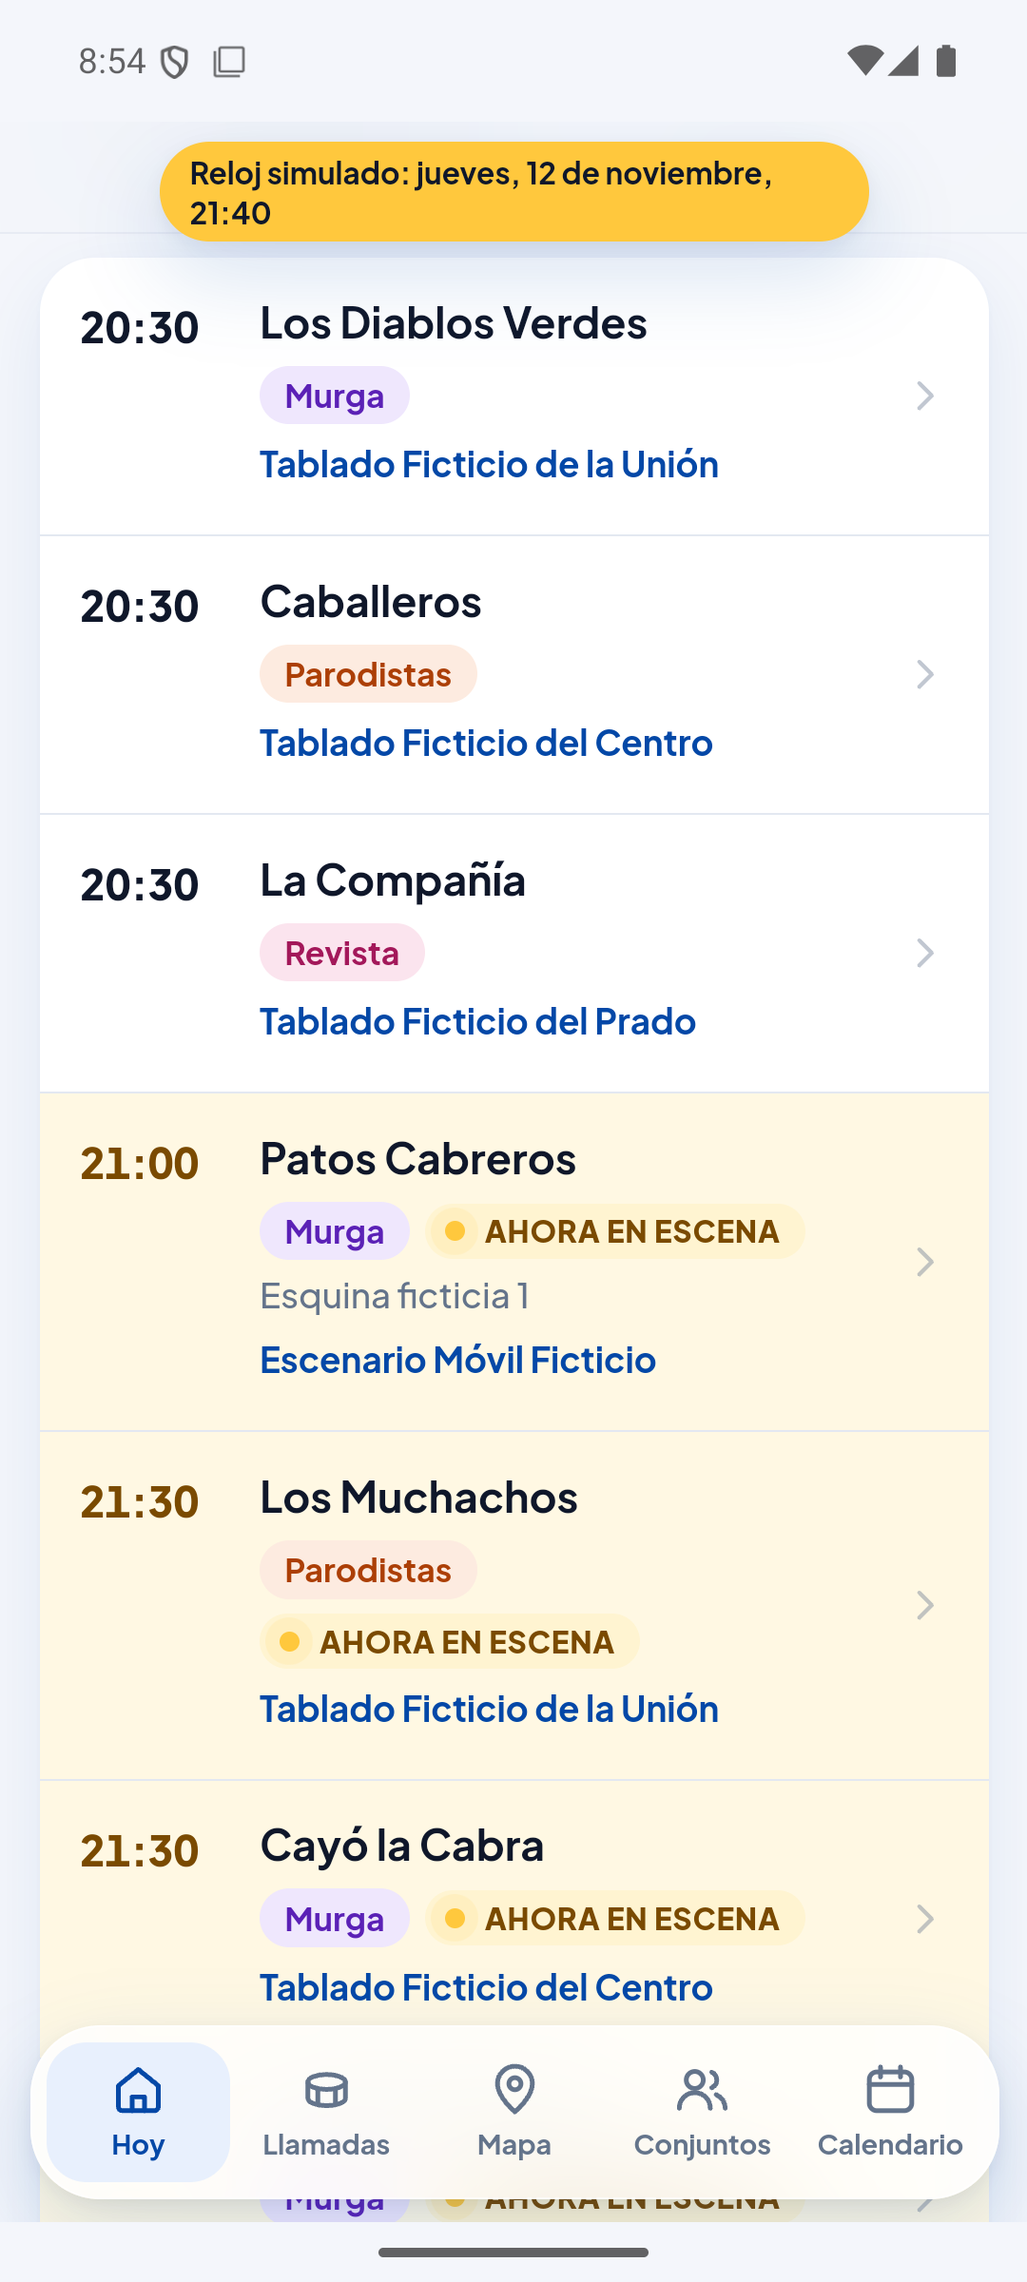
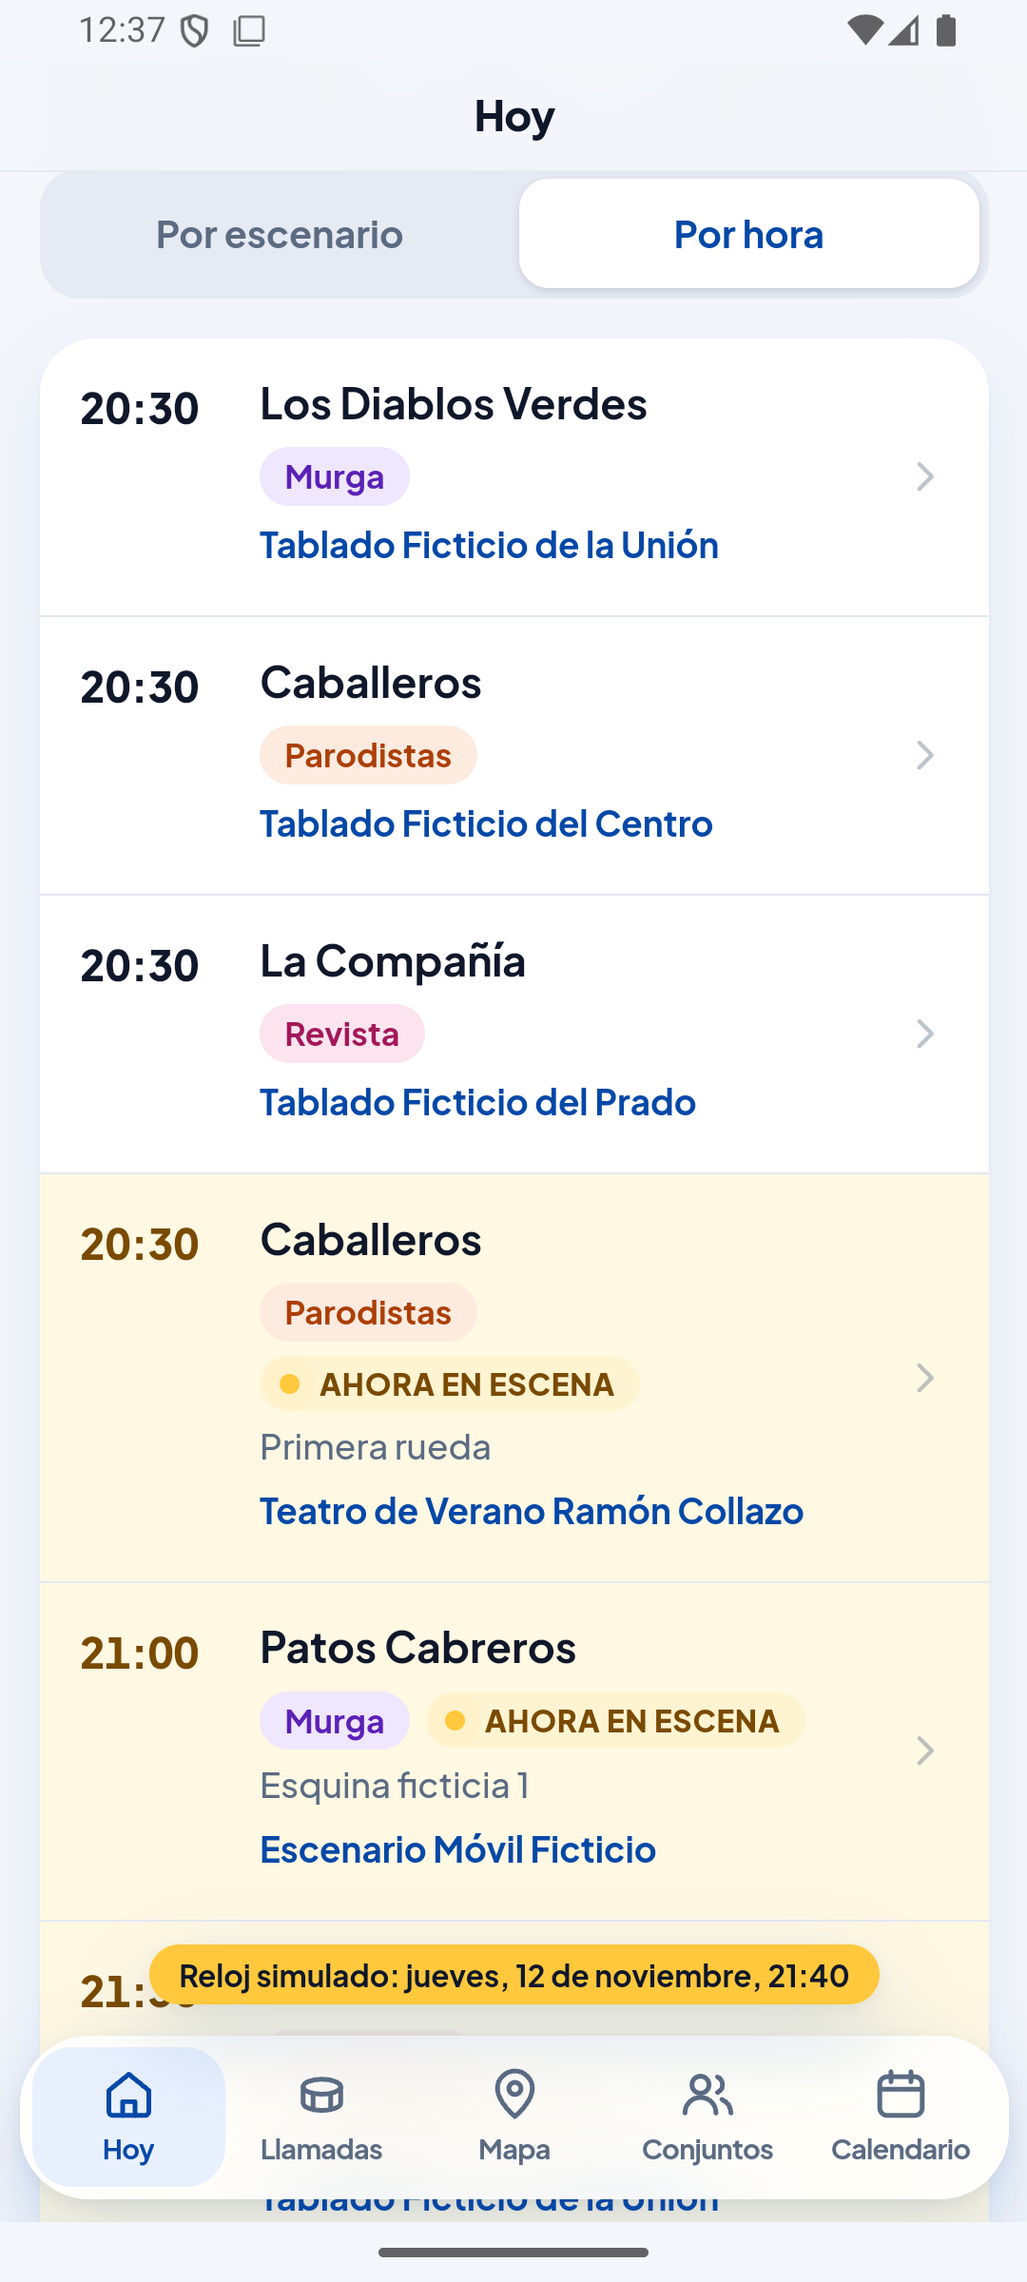
Rediseño: pantalla de error, ajustes de teléfono chico e inglés (barra de pestañas, hora de 12 horas, encuadre del mapa), capturas en inglés, en teléfono chico y en modo oscuro, y la decisión 93

diff --git a/app/src/features/map/MontevideoMap.tsx b/app/src/features/map/MontevideoMap.tsx
@@ -20,7 +20,7 @@ setWorkerUrl(workerUrl)
 
 const INITIAL_ZOOM = 12
 /** Lo que tapan el encabezado flotante y la barra de pestañas, para encuadrar los marcadores. */
-const TOP_SPACE = 170
+const TOP_SPACE = 240
 const BOTTOM_SPACE = 130
 const SVG_NS = 'http://www.w3.org/2000/svg'
 
@@ -95,7 +95,8 @@ export function MontevideoMap({
   const { t } = useTranslation()
   const container = useRef<HTMLDivElement>(null)
   const [map, setMap] = useState<MapLibreMap | null>(null)
-  const fitted = useRef(false)
+  /** Si el usuario ya movió el mapa: desde ahí no se lo reacomoda. */
+  const touched = useRef(false)
   const apiKey = import.meta.env.VITE_MAPTILER_KEY || undefined
 
   // Los últimos `labelOf` y `onOpen`, sin rearmar los marcadores cuando cambian.
@@ -115,9 +116,13 @@ export function MontevideoMap({
     })
     instance.addControl(new NavigationControl({ showCompass: false }), 'bottom-right')
     instance.on('click', () => handlers.current.onBackground?.())
+    instance.on('movestart', (event) => {
+      // Sólo los movimientos de un dedo o del mouse: los que hace la app no cuentan.
+      if ((event as { originalEvent?: unknown }).originalEvent) touched.current = true
+    })
     setMap(instance)
     return () => {
-      fitted.current = false
+      touched.current = false
       setMap(null)
       instance.remove()
     }
@@ -133,9 +138,9 @@ export function MontevideoMap({
       registry.set(marker.key, element)
       return new Marker({ element }).setLngLat([marker.lng, marker.lat]).addTo(map)
     })
-    // La primera vez que hay marcadores, el mapa se acomoda para mostrarlos todos.
-    if (!fitted.current && markers.length > 0) {
-      fitted.current = true
+    // El mapa se acomoda para mostrar todos los marcadores, también cuando llegan más (los
+    // escenarios fijos y las paradas vienen de dos consultas), hasta que el usuario lo mueve.
+    if (!touched.current && markers.length > 0) {
       const bounds = new LngLatBounds()
       for (const marker of markers) bounds.extend([marker.lng, marker.lat])
       // El encabezado puede haber crecido en este mismo render: primero, el tamaño real.

diff --git a/app/src/components/ErrorScreen.tsx b/app/src/components/ErrorScreen.tsx
@@ -2,7 +2,8 @@ import { Component, useEffect, type ReactNode } from 'react'
 import { useTranslation } from 'react-i18next'
 import { useRouteError } from 'react-router'
 import { reportError } from '../lib/errors'
-import { Button } from './Button'
+import { OfflineArt } from './ui/illustrations'
+import { PrimaryButton } from './ui/primitives'
 
 /** Lo que se ve cuando una pantalla se rompe: qué pasó, en criollo, y cómo seguir. */
 function Broken() {
@@ -10,13 +11,20 @@ function Broken() {
   return (
     <main
       role="alert"
-      className="mx-auto flex min-h-dvh max-w-2xl flex-col justify-center px-4 py-8"
+      className="mx-auto flex min-h-dvh max-w-2xl flex-col items-center justify-center px-6 py-8 text-center"
     >
-      <p className="text-accent font-semibold tracking-wide uppercase">{t('app.name')}</p>
-      <h1 className="mt-1 text-3xl font-bold">{t('error.title')}</h1>
-      <p className="text-soft mt-3 text-lg">{t('error.body')}</p>
+      <OfflineArt />
+      <p className="text-brand mt-5 text-[0.8125rem] font-extrabold tracking-[0.08em] uppercase">
+        {t('app.name')}
+      </p>
+      <h1 className="mt-1 text-[1.875rem] leading-tight font-extrabold tracking-tight">
+        {t('error.title')}
+      </h1>
+      <p className="text-soft mt-3 max-w-sm text-[1.0625rem]">{t('error.body')}</p>
       <div className="mt-6">
-        <Button onClick={() => window.location.assign('/')}>{t('error.retry')}</Button>
+        <PrimaryButton onClick={() => window.location.assign('/')}>
+          {t('error.retry')}
+        </PrimaryButton>
       </div>
     </main>
   )

diff --git a/app/src/components/TabBar.tsx b/app/src/components/TabBar.tsx
@@ -20,7 +20,7 @@ function Tab({ to, label, icon, withChildren = false }: TabProps) {
         // Las pestañas no apilan historial: «atrás» desde una pestaña no recorre las otras.
         replace
         className={({ isActive }) =>
-          `flex min-h-14 flex-col items-center justify-center gap-0.5 rounded-2xl px-1 text-[0.6875rem] font-bold transition-colors duration-150 ${
+          `flex min-h-14 flex-col items-center justify-center gap-0.5 rounded-2xl text-[0.6875rem] font-bold tracking-tight transition-colors duration-150 ${
             isActive ? 'bg-brand-soft text-brand' : 'text-soft'
           }`
         }
@@ -41,9 +41,9 @@ export function TabBar() {
   return (
     <nav
       aria-label={t('nav.label')}
-      className="pointer-events-none fixed inset-x-0 bottom-0 z-40 px-3 pb-[calc(var(--safe-bottom)+0.625rem)]"
+      className="pointer-events-none fixed inset-x-0 bottom-0 z-40 px-2 pb-[calc(var(--safe-bottom)+0.625rem)]"
     >
-      <ul className="shadow-float pointer-events-auto mx-auto flex max-w-md gap-0.5 rounded-[1.75rem] border border-white/70 bg-white/85 p-1.5 backdrop-blur-xl backdrop-saturate-150">
+      <ul className="shadow-float pointer-events-auto mx-auto flex max-w-md rounded-[1.75rem] border border-white/70 bg-white/85 p-1 backdrop-blur-xl backdrop-saturate-150">
         <Tab to="/" label={t('nav.today')} icon={<HomeIcon />} />
         <Tab to="/llamadas" label={t('nav.llamadas')} icon={<DrumIcon />} withChildren />
         <Tab to="/mapa" label={t('nav.map')} icon={<MapPinIcon />} />

diff --git a/app/src/components/ui/primitives.tsx b/app/src/components/ui/primitives.tsx
@@ -271,12 +271,15 @@ interface DateBadgeProps {
 export function DateBadge({ top, bottom, today = false }: DateBadgeProps) {
   return (
     <span
-      className={`inline-flex size-[3.75rem] shrink-0 flex-col items-center justify-center rounded-2xl leading-none ${
+      // Cuadrado, salvo que lo de abajo sea largo (una hora en formato de 12 horas): ahí se ensancha.
+      className={`inline-flex h-[3.75rem] min-w-[3.75rem] shrink-0 flex-col items-center justify-center rounded-2xl px-2 leading-none ${
         today ? 'bg-brand text-white' : 'bg-brand-soft text-brand'
       }`}
     >
       <span className="text-[0.6875rem] font-extrabold tracking-wide uppercase">{top}</span>
-      <span className="mt-1 text-[1.125rem] font-extrabold tabular-nums">{bottom}</span>
+      <span className="mt-1 text-[1.125rem] font-extrabold whitespace-nowrap tabular-nums">
+        {bottom}
+      </span>
     </span>
   )
 }

diff --git a/docs/DECISIONES.md b/docs/DECISIONES.md
@@ -256,10 +256,23 @@ Registro de decisiones del proyecto. Si algo de `docs/PLAN.md` choca con este ar
 90. **La ubicación no sale del teléfono.** Cambia la decisión 34: con «Cerca mío», la app mandaba la posición en la consulta de la noche para que la base devolviera las distancias. Ahora la base devuelve el punto de cada actuación, como siempre, y la distancia se calcula en el teléfono (`distanceMeters`, haversine; contra PostGIS la diferencia es de menos del 0,5 %). `actuaciones_de_la_noche` ya no tiene los parámetros `p_lat` y `p_lng` ni la columna `distancia_m`: no hay forma de mandarle la posición. Consecuencias: la política puede decir que la ubicación no se guarda ni se envía; no hay que declarar ubicación como dato recopilado en ninguna de las dos tiendas; con «Cerca mío» prendido ya no hay una consulta aparte, así que anda igual sin señal sobre la grilla guardada; y la consulta de la noche se guarda en el teléfono también con «Cerca mío». `escenarios_cercanos` sigue recibiendo un punto, pero la app sólo le pasa el centro de Montevideo, fijo (decisión 35). El mapa y el modo Llamadas ya usaban la posición sólo en el teléfono.
 91. **Rediseño visual, en curso.** La app funcionaba pero se veía oscura, chata y sin alegría. Se rediseña entera en la rama `rediseno`, sin cambiar cómo funciona nada: mismos datos, mismas reglas y todos los textos por i18n. Cambia la decisión del tema oscuro único (el encabezado de `app/src/index.css`): la app va a respetar el modo claro u oscuro del teléfono. Pasos: capturas de cómo estaba (`docs/diseno/antes/`); tres direcciones aplicadas sólo a Hoy, para elegir (`docs/diseno/opciones/`): **clara** (luminosa, muy de iPhone, con el azul del logo), **tablado** (de noche, cálida, con guirnalda de bombitas) y **festiva** (el azul del logo a pleno, con serpentinas y papelitos); después, el sistema de diseño y cada pantalla. Mientras se elige, las tres viven en `app/src/design/` y `app/src/features/today/fresh/`, detrás de un selector que sólo aparece en desarrollo (con `pnpm dev` o contra el Supabase local): un build contra el remoto no lo dibuja. Lo que ya es común a las tres: un color por categoría, la hora y el conjunto mandando en cada fila, sin nombres subrayados, control segmentado para la vista y las tipografías dentro de la app (sólo el subconjunto latino). Sin librería de componentes: se sigue con Tailwind y componentes propios, que es lo que deja el mismo aspecto cuidado en iOS y en Android sin rehacer las pantallas ni sumar peso al arranque.
 92. **Un único diseño, claro.** Reemplaza el tema oscuro único (el que traía `app/src/index.css` desde la Fase 3) y también la idea de seguir el modo claro u oscuro del teléfono (decisión 91): la app se ve siempre igual, clara, limpia y luminosa, esté como esté el teléfono. Las tres direcciones de la decisión 91 y su selector se descartaron; quedan sus capturas en `docs/diseno/opciones/` como registro. La guía es `docs/diseno/referencia.png` (Hoy, ficha de conjunto y Llamadas). Lo que fija:
-    - **Colores:** fondo `#F4F6FB`; tarjetas blancas con esquinas de 20 a 22 px y sombra suave azulada; marca `#0448A7`; encabezados de pestaña con un degradé de `#0448A7` a `#2F80ED` y `#56CCF2`; texto `#0F172A` y secundario `#64748B`. Todo lo que se toca va en el azul de la marca, y el botón principal es lleno, azul, con texto blanco.
+    - **Colores:** fondo `#F4F6FB`; tarjetas blancas con esquinas de 20 a 22 px y sombra suave azulada; marca `#0448A7`; encabezados de pestaña con un degradé de `#0448A7` a `#2F80ED` y `#56CCF2`; texto `#0F172A` y secundario `#5B6B82` (un punto más oscuro que el `#64748B` del boceto, para que pase el contraste AA también sobre el fondo de la app). Todo lo que se toca va en el azul de la marca, y el botón principal es lleno, azul, con texto blanco.
     - **Estados:** «Ahora en escena» en amarillo sol `#FFC83D`, con un punto que late; cambiada, en ámbar; suspendida, en rojo suave y con el texto tachado.
     - **Un color por categoría**, en píldoras de fondo suave y texto fuerte y en los avatares: murga `#7C3AED`, parodistas `#EA580C`, humoristas `#16A34A`, revista `#DB2777`, comparsa `#DC2626`, samba `#D97706` y otro `#64748B`. El color nunca va solo: siempre lo acompaña el nombre de la categoría.
     - **Tipografía:** Plus Jakarta Sans, dentro de la app (sólo el subconjunto latino), con números tabulares en las horas.
     - **Componentes** (`app/src/components/ui/`): encabezado de pestaña con degradé, papelitos y serpentina; tarjetas; chips; control segmentado; encabezado de sección; filas enteras tocables; avatar de iniciales; cuadradito de fecha; barra de pestañas flotante y translúcida; botones redondos; estados vacíos con ilustración.
     - **Siempre claro:** `UIUserInterfaceStyle` en `Light` en iOS; en Android, sin tema DayNight y sin oscurecimiento automático del WebView. La barra de estado se adapta: íconos blancos sobre el degradé y oscuros sobre fondo claro.
     - **No cambia cómo funciona nada.** Lo único nuevo es la pantalla Buscar. Sin librería de componentes: Tailwind y componentes propios.
+93. **Rediseño: lo que se resolvió al aplicarlo** (2026-11-12, todo aprobado por el dueño del producto). El diseño de la decisión 92 quedó en todas las pantallas, en español y en inglés; las capturas están en `docs/diseno/despues/` (y en `en/`, `chico/` y `oscuro/`: en inglés, en un teléfono de 360 × 640 y con el teléfono en modo oscuro). Lo que se apartó del boceto o de cómo funcionaba:
+    - **Buscar** (`/buscar`) es la única pantalla nueva: conjuntos y escenarios por nombre o alias, con las mismas reglas que el buscador de conjuntos (`norm`, sin tolerancia a errores de tipeo).
+    - **Hoy:** «Ver todo» pasa a «Por hora» y baja hasta la primera actuación en escena. El precio de un escenario nunca parte su nombre: si no entra al lado, baja a la línea del tipo y el barrio.
+    - **Mapa:** tocar un marcador abre su tarjeta abajo y de ahí se va a la ficha (antes iba directo). Los marcadores son redondos, del color del tipo de escenario y con una forma blanca adentro, para que el color no vaya solo. El mapa es claro.
+    - **Llamadas:** la cuadra elegida viaja entre las vistas (`?cuadra=`): «Tu cuadra» la muestra en la portada del modo y el orden de desfile dice a qué hora pasa cada comparsa por ahí. Las cuatro vistas siguen a la vista, como chips, además de los enlaces del boceto. El segmentado dice «Noche 1» y «Noche 2», y la fecha va en el subtítulo. El mapa del recorrido se mueve con dos dedos, para que con uno se pueda bajar por la pantalla.
+    - **Concurso:** las ruedas van en un segmentado y se ve una por vez; abre en la rueda en curso o en la que viene, y la elegida queda en la URL (`?rueda=`).
+    - **Calendario:** una sola etiqueta por evento, la que más importa: en curso, fecha estimada o pretemporada, en ese orden. Una fecha estimada sigue sin mostrarse nunca como firme (decisión 56): si el evento está en curso, lo dice el «aprox.» del texto.
+    - **Ficha de conjunto:** compartir manda el nombre del conjunto y la dirección del sitio público, porque la app no tiene una dirección propia por conjunto (decisión 50). «Ver todas» no está: la ficha ya lista todas las actuaciones. Seguir vibra apenas al tocarlo.
+    - **Scroll:** cada pantalla arranca arriba y, al volver atrás, queda donde estaba.
+    - **Pantalla de inicio:** clara, también con el teléfono en modo oscuro.
+    - **Plugins nuevos:** `@capacitor/haptics` y `@capacitor/share`.
+    - **Queda para probar en el iPhone:** la barra de estado sobre el degradé (en el emulador de Android el WebView no dibuja debajo de la barra), la vibración y compartir.
+    - **Visto y no tocado:** la app recuerda el primer idioma con que se abrió (lo guarda en el teléfono) y no cambia sola si después se cambia el idioma del teléfono.

diff --git a/CLAUDE.md b/CLAUDE.md
@@ -154,7 +154,7 @@ En el emulador Android, la app reescribe `127.0.0.1`/`localhost` a `10.0.2.2` pa
 - «Mis conjuntos» es `?mios=1` y lo filtra la base (`p_solo_favoritos`). Esa consulta no se guarda en el teléfono y se vuelve a pedir cuando cambian los seguidos.
 - La noche que se muestra sale de `nocheLogica()` o de `?noche=YYYY-MM-DD`; los filtros viven en la URL.
 - Las fechas de los eventos y de las etapas son fechas puras (`YYYY-MM-DD`): se comparan como texto y se formatean en UTC (`formatIsoDate`, `formatNight`, `formatMonth`, `formatDayParts` en `lib/format.ts`). «Hoy» es siempre `nocheLogica()`. Una fecha con `estado = 'estimado'` nunca se muestra sin su marca (decisión 56).
-- El Concurso está en `/calendario/concurso`, antes que `/calendario/:slug` en `routes.tsx`. Un fixture sin etapas no es una lista vacía: es «todavía no se publicó».
+- El Concurso está en `/calendario/concurso`, antes que `/calendario/:slug` en `routes.tsx`. Un fixture sin etapas no es una lista vacía: es «todavía no se publicó». Muestra una rueda por vez (`?rueda=`); sin elegir, la que está en curso o la que viene (`currentRound`).
 - Para compilar la app contra el proyecto remoto: `app/.env.remoto` (ver «Proyecto remoto»).
 - `/mapa` se carga aparte (`features/map/LazyMapPage.tsx`), así «Hoy» arranca sin MapLibre. Fuera de `features/map/`, nadie importa `MapPage` ni `MontevideoMap`.
 - Las consultas se guardan en el teléfono 24 horas (`app/src/lib/queryCache.ts`, decisión 37). Si cambia la forma de lo que devuelve una consulta, subir `CACHE_VERSION`. La posición del usuario no va en ninguna consulta (decisión 90).
@@ -170,7 +170,7 @@ En el emulador Android, la app reescribe `127.0.0.1`/`localhost` a `10.0.2.2` pa
 
 ### Diseño
 
-Decisión 92: un único diseño, claro, que se ve igual con el teléfono en modo claro o en modo oscuro. La guía es `docs/diseno/referencia.png`; las capturas de antes y de después están en `docs/diseno/`.
+Decisiones 92 y 93: un único diseño, claro, que se ve igual con el teléfono en modo claro o en modo oscuro. La guía es `docs/diseno/referencia.png`; las capturas de antes y de después están en `docs/diseno/` (`despues/en`, `despues/chico` y `despues/oscuro`: en inglés, en un teléfono de 360 × 640 y con el teléfono en modo oscuro).
 
 - **El sistema está en `app/src/index.css`:** los colores (`ground`, `surface`, `ink`, `soft`, `brand`, `sun`, `amber`, `danger`, `ok` y sus versiones suaves), la tipografía (Plus Jakarta Sans, dentro de la app, sólo el subconjunto latino), las sombras y el degradé de los encabezados (`.brand-gradient`). Todo lo que se toca va en `brand`. No usar colores sueltos en las pantallas: si falta uno, se suma ahí.
 - **Las piezas, en `app/src/components/ui/`:** `primitives.tsx` (tarjeta, encabezado de sección, segmentado, chip de filtro, píldoras, avatar, cuadradito de fecha, botones, fila, estado vacío), `TabHeader.tsx` (el encabezado con degradé de cada pestaña), `icons.tsx` (un solo juego de íconos), `illustrations.tsx` (las de los estados vacíos) y `scroll.tsx` (el título que se achica y tirar para actualizar). `/muestra` las tiene todas juntas; sólo existe en desarrollo y se llega desde «Acerca de».
@@ -180,6 +180,7 @@ Decisión 92: un único diseño, claro, que se ve igual con el teléfono en modo
 - **La barra de pestañas flota** sobre el contenido: el contenedor que scrollea deja libre `--tabbar-space` abajo. Una pantalla con algo fijo abajo tiene que contar ese espacio.
 - **El scroll es uno solo** (`AppLayout`): al entrar a una pantalla arranca arriba y al volver atrás queda donde estaba (`useScrollPerScreen`); cambiar un filtro no lo mueve. Un mapa dentro de una pantalla que scrollea lleva `cooperativeGestures` (`ParadeMap`); el de `/mapa` es de pantalla completa (`fixed inset-0`) y sus controles se corren con `--map-bottom`.
 - **Volver y compartir:** `components/ui/BackButton.tsx` (vuelve, o va a un destino si la app abrió directo ahí) y `lib/share.ts`. La vibración al tocar Seguir sale de `lib/haptics.ts`. Los dos plugins (`@capacitor/share`, `@capacitor/haptics`) sólo se cargan en el teléfono.
+- **Lo que hay que mirar al tocar una pantalla:** que entre en un teléfono de 360 px de ancho (la barra de pestañas, los chips de Llamadas) y en inglés, donde las horas llevan «PM» (el cuadradito de fecha se ensancha solo). En el emulador: `adb shell wm size 720x1280` y `adb shell wm density 320` (y `reset` para volver), y `adb shell cmd uimode night yes` para el modo oscuro.
 - Los tests buscan por rol y por texto, no por clases: al rediseñar una pantalla, conservar los roles, los nombres accesibles y los textos. Una fila entera que se toca lleva el enlace en el nombre, con `after:absolute after:inset-0`.
 
 ### Simular la fecha
